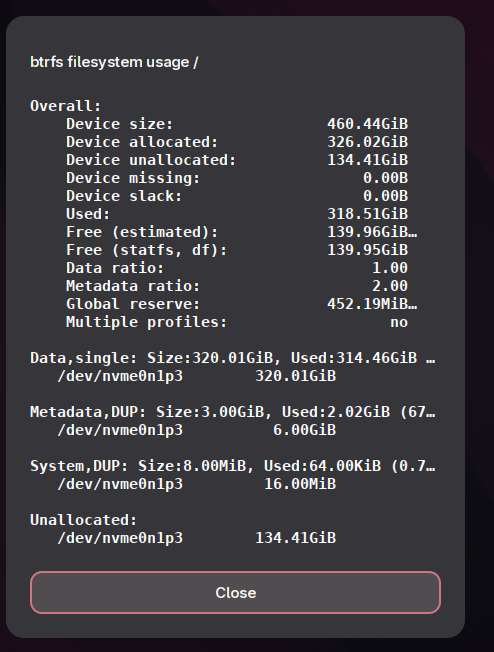
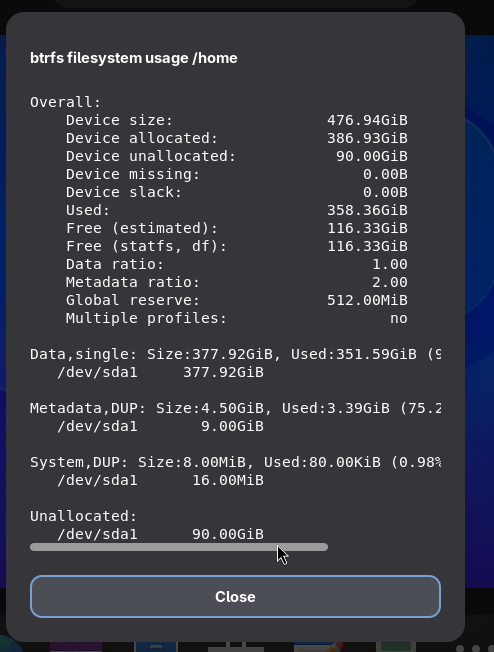
Usage dialog: no ellipsis, horizontal scroll; add make test
- do not ellipsize usage output; scroll horizontally when wider than dialog
- make test: run the packaged extension in a throwaway nested GNOME Shell
- refresh usage screenshot

diff --git a/extension.js b/extension.js
@@ -2,6 +2,7 @@ import Clutter from 'gi://Clutter';
 import Gio from 'gi://Gio';
 import GLib from 'gi://GLib';
 import GObject from 'gi://GObject';
+import Pango from 'gi://Pango';
 import St from 'gi://St';
 
 import {Extension, gettext as _} from 'resource:///org/gnome/shell/extensions/extension.js';
@@ -304,10 +305,15 @@ class BtrfsGuardIndicator extends PanelMenu.Button {
                 text: format(_('btrfs filesystem usage %s'), this._mount),
                 style: 'font-weight: bold; padding-bottom: 8px;',
             }));
-            const scroll = new St.ScrollView({style: 'max-height: 520px;'});
+            const scroll = new St.ScrollView({
+                style: 'min-width: 640px; max-height: 520px;',
+                hscrollbar_policy: St.PolicyType.AUTOMATIC,
+            });
             // St.ScrollView only accepts St.Scrollable children (a bare St.Label renders nothing)
             const body = new St.BoxLayout({orientation: Clutter.Orientation.VERTICAL});
-            body.add_child(new St.Label({text: text.trim(), style: 'font-family: monospace;'}));
+            const label = new St.Label({text: text.trim(), style: 'font-family: monospace;'});
+            label.clutter_text.ellipsize = Pango.EllipsizeMode.NONE;
+            body.add_child(label);
             scroll.add_child(body);
             dialog.contentLayout.add_child(scroll);
             dialog.addButton({label: _('Close'), action: () => dialog.close(), key: Clutter.KEY_Escape});
